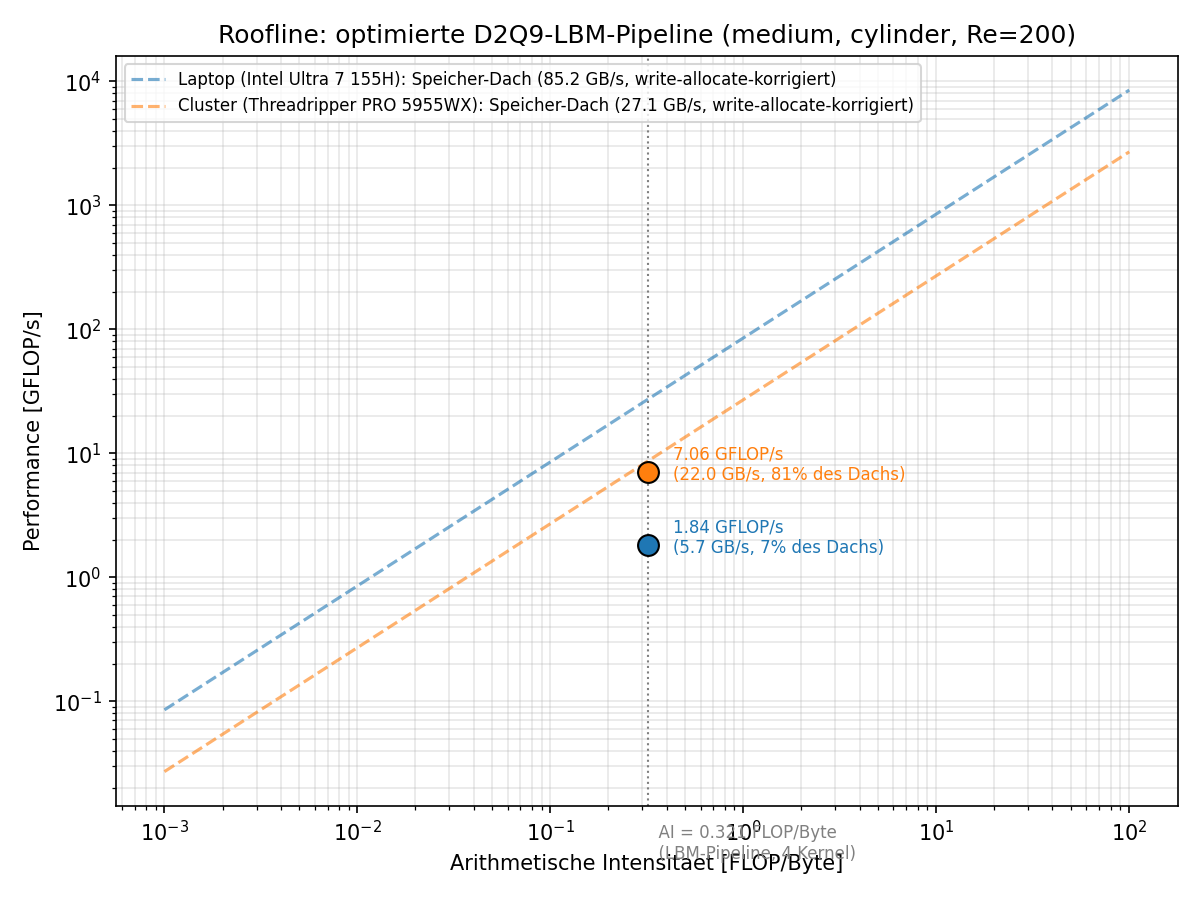
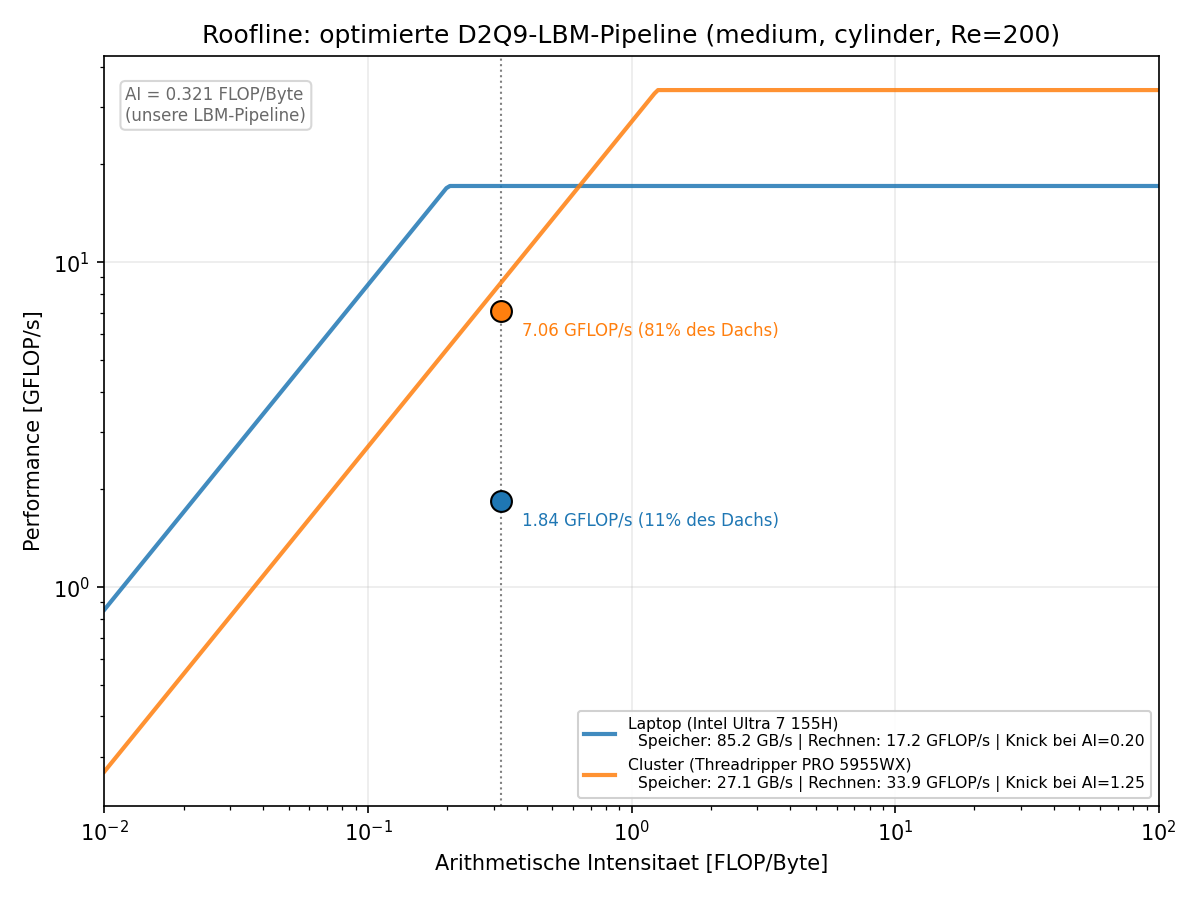
Roofline plot erstellt und scaling problem bash geschrieben um auf cluster laufen zu lassen

diff --git a/04_LatticeBoltzmann/roofline.py b/04_LatticeBoltzmann/roofline.py
@@ -2,6 +2,10 @@
 Roofline-Analyse fuer die optimierte LBM-Pipeline (Numba, 4 Kernel: equilibrium,
 macroscopic, stream, collide_and_bounce), auf Basis der 'medium'-Benchmarks
 (Arbeitsset > L3-Cache auf beiden Maschinen -- 'small' war Cache-verzerrt, siehe Notes.md).
+
+Speicher- und Rechen-"Daecher" sind selbst gemessene, erreichbare Grenzen fuer
+Numba-Skalarschleifen-Code (@njit(parallel=True)/prange, kein manuelles SIMD) --
+keine theoretischen Hardware-Maxima aus dem Datenblatt.
 """
 import numpy as np
 import matplotlib.pyplot as plt
@@ -12,67 +16,84 @@ import matplotlib.pyplot as plt
 #   macroscopic:          96 B/Zelle,   47 FLOPs/Zelle
 #   stream:               144 B/Zelle,   0 FLOPs/Zelle
 #   collide_and_bounce:   216 B/Zelle,  27 FLOPs/Zelle
-# Summe pro Zelle und Zeitschritt (alle vier Kernel, nicht fusioniert):
 BYTES_PER_CELL = 96 + 96 + 144 + 216   # = 552
 FLOPS_PER_CELL = 103 + 47 + 0 + 27      # = 177
 AI = FLOPS_PER_CELL / BYTES_PER_CELL    # FLOP/Byte
 
-# ---------------------------------------------------------------------------
-# Gemessene Werte: 'medium'-Benchmark (cylinder, 1000x250, 10'000 Steps) --
-# das Arbeitsset (~78 MB) ist auf beiden Maschinen groesser als der L3-Cache.
+WRITE_ALLOCATE_CORRECTION = 4 / 3   # STREAM-Triad zaehlt nur 3N*8B, real 4N*8B
+
 machines = {
     "Laptop (Intel Ultra 7 155H)": {
         "mlups": 10.373,
-        "stream_gbs_raw": 63.92,     # eigene STREAM-Triad-Messung
+        "stream_gbs_raw": 63.92,
+        "compute_gflops": 17.17,     # eigener compute_bench.py-Wert
         "color": "tab:blue",
     },
     "Cluster (Threadripper PRO 5955WX)": {
         "mlups": 39.880,
         "stream_gbs_raw": 20.30,
+        "compute_gflops": 33.88,
         "color": "tab:orange",
     },
 }
-WRITE_ALLOCATE_CORRECTION = 4 / 3   # STREAM-Triad-Messung zaehlt nur 3N*8B, real 4N*8B
 
 fig, ax = plt.subplots(figsize=(8, 6))
+ai_range = np.logspace(-2, 2, 300)
 
-ai_range = np.logspace(-3, 2, 200)
+y_min, y_max = 1e9, -1e9
 
 for name, d in machines.items():
     peak_bw = d["stream_gbs_raw"] * WRITE_ALLOCATE_CORRECTION   # GB/s
-    achieved_bw = BYTES_PER_CELL * d["mlups"] / 1000             # GB/s
-    achieved_gflops = FLOPS_PER_CELL * d["mlups"] / 1000         # GFLOP/s
+    peak_compute = d["compute_gflops"]                          # GFLOP/s
+    ridge_ai = peak_compute / peak_bw
 
-    # Memory-Roof: Performance = AI * peak_bandwidth (Speicherbandbreiten-Grenze)
-    ax.plot(ai_range, ai_range * peak_bw, "--", color=d["color"], alpha=0.6,
-             label=f"{name}: Speicher-Dach ({peak_bw:.1f} GB/s, write-allocate-korrigiert)")
+    roof = np.minimum(ai_range * peak_bw, peak_compute)         # klassische Roofline-Form
+    ax.plot(ai_range, roof, "-", color=d["color"], linewidth=2, alpha=0.85,
+            label=f"{name}\n  Speicher: {peak_bw:.1f} GB/s | Rechnen: {peak_compute:.1f} GFLOP/s "
+                  f"| Knick bei AI={ridge_ai:.2f}")
 
-    # gemessener Punkt bei AI der LBM-Pipeline
+    achieved_bw = BYTES_PER_CELL * d["mlups"] / 1000
+    achieved_gflops = FLOPS_PER_CELL * d["mlups"] / 1000
+    applicable_roof = min(AI * peak_bw, peak_compute)
+    util_pct = achieved_gflops / applicable_roof * 100
+
     ax.plot(AI, achieved_gflops, "o", color=d["color"], markersize=10,
-             markeredgecolor="black", zorder=5)
-    ax.annotate(f"{achieved_gflops:.2f} GFLOP/s\n({achieved_bw:.1f} GB/s, "
-                f"{achieved_bw/peak_bw*100:.0f}% des Dachs)",
-                (AI, achieved_gflops), textcoords="offset points", xytext=(12, -4),
+            markeredgecolor="black", zorder=5)
+    ax.annotate(f"{achieved_gflops:.2f} GFLOP/s ({util_pct:.0f}% des Dachs)",
+                (AI, achieved_gflops), textcoords="offset points", xytext=(10, -12),
                 fontsize=8, color=d["color"])
 
-ax.axvline(AI, color="gray", linestyle=":", linewidth=1)
-ax.text(AI, ax.get_ylim()[1] if False else 0.005, f"  AI = {AI:.3f} FLOP/Byte\n  (LBM-Pipeline, 4 Kernel)",
-        fontsize=8, color="gray", va="bottom")
+    y_min = min(y_min, roof.min(), achieved_gflops)
+    y_max = max(y_max, roof.max(), achieved_gflops)
+
+ax.axvline(AI, color="gray", linestyle=":", linewidth=1, zorder=1)
+# links von der grauen Linie, oben im freien Bereich (Achsen-Koordinaten, unabhaengig von den
+# Datenwerten) -- ueberdeckt weder eine Dachlinie noch die Legende
+ax.text(0.02, 0.96, f"AI = {AI:.3f} FLOP/Byte\n(unsere LBM-Pipeline)",
+        transform=ax.transAxes, fontsize=8, color="dimgray", va="top", ha="left",
+        bbox=dict(boxstyle="round,pad=0.3", fc="white", ec="lightgray", alpha=0.9))
 
 ax.set_xscale("log")
 ax.set_yscale("log")
+ax.set_xlim(ai_range[0], ai_range[-1])
 ax.set_xlabel("Arithmetische Intensitaet [FLOP/Byte]")
 ax.set_ylabel("Performance [GFLOP/s]")
 ax.set_title("Roofline: optimierte D2Q9-LBM-Pipeline (medium, cylinder, Re=200)")
-ax.legend(fontsize=8, loc="upper left")
-ax.grid(alpha=0.3, which="both")
+ax.legend(fontsize=7.5, loc="lower right", framealpha=0.9)
+ax.grid(True, which="major", alpha=0.25)
 
 fig.tight_layout()
 fig.savefig("figures/roofline.png", dpi=150)
 print("Plot gespeichert: figures/roofline.png")
+
 print(f"\nAI = {AI:.4f} FLOP/Byte")
 for name, d in machines.items():
     peak_bw = d["stream_gbs_raw"] * WRITE_ALLOCATE_CORRECTION
-    achieved_bw = BYTES_PER_CELL * d["mlups"] / 1000
-    print(f"{name}: achieved {achieved_bw:.2f} GB/s / corrected peak {peak_bw:.2f} GB/s "
-          f"= {achieved_bw/peak_bw*100:.1f}%")
+    peak_compute = d["compute_gflops"]
+    ridge_ai = peak_compute / peak_bw
+    achieved_gflops = FLOPS_PER_CELL * d["mlups"] / 1000
+    applicable_roof = min(AI * peak_bw, peak_compute)
+    regime = "speicherlimitiert" if AI < ridge_ai else "rechenlimitiert (im Modell)"
+    print(f"{name}: Knick bei AI={ridge_ai:.3f} -> unser Kernel liegt im Bereich '{regime}'; "
+          f"erreicht {achieved_gflops:.2f} / Dach {applicable_roof:.2f} GFLOP/s "
+          f"= {achieved_gflops/applicable_roof*100:.1f}%")

diff --git a/04_LatticeBoltzmann/Notes.md b/04_LatticeBoltzmann/Notes.md
@@ -370,9 +370,29 @@ Cache-Line ueblicherweise zuerst ein "verstecktes" Lesen dieser Line ausloest):
 | Laptop   | 63.92 GB/s   | 85.23 GB/s | 5.73 GB/s  | **6.7%** |
 | Cluster  | 20.30 GB/s   | 27.07 GB/s | 22.01 GB/s | **81.3%** |
 
-Plot: `figures/roofline.png` (`roofline.py`).
+**Rechen-Dach** (zweiter Mikrobenchmark, `compute_bench.py`: kleines Array bleibt im Cache,
+sehr viele FMA-artige Operationen, damit die Zeit rein von der Rechenleistung dominiert wird,
+gleiches `@njit(parallel=True)`/`prange`-Muster):
 
-**Interpretation -- grosse Diskrepanz Laptop vs. Cluster:** Der Cluster erreicht bei `medium`
+| Maschine | Rechen-Dach (gemessen) | Speicher-Dach (korrigiert) | Knick (Ridge Point) |
+|----------|--------------------------|------------------------------|------------------------|
+| Laptop   | 17.17 GFLOP/s | 85.23 GB/s | AI = 0.201 FLOP/Byte |
+| Cluster  | 33.88 GFLOP/s | 27.07 GB/s | AI = 1.252 FLOP/Byte |
+
+Hinweis: beide Daecher sind selbst gemessene, mit Numba-Skalarschleifen erreichbare Grenzen
+(kein manuelles SIMD) -- keine theoretischen Hardware-Datenblatt-Maxima.
+
+Plot: `figures/roofline.png` (`roofline.py`), mit korrektem Roofline-Knick (Speicher-Diagonale
+bricht am Ridge Point in die flache Rechenleistungs-Grenze).
+
+**Interpretation -- grosse Diskrepanz Laptop vs. Cluster:** Bei unserer AI (0.321 FLOP/Byte)
+liegt der Cluster noch links vom eigenen Knick (1.252) -- also im speicherlimitierten Bereich,
+und erreicht dort plausibel 81% seines Speicher-Dachs. Der Laptop dagegen hat einen sehr
+niedrigen Knick (0.201, weil sein Speicher-Dach im Verhaeltnis zur eigenen Rechenleistung sehr
+hoch ist) -- unsere Pipeline liegt bei ihm im Modell schon im rechenlimitierten Bereich, erreicht
+aber nur 11% des (gemessenen) Rechen-Dachs. Unabhaengig davon, welches Dach man anlegt: der
+Laptop bleibt bei `medium` weit unter jeder plausiblen Grenze -- die Unterauslastung ist real,
+nicht nur ein Artefakt der Modellwahl. Der Cluster erreicht bei `medium`
 plausibel den Grossteil (81%) seiner eigenen Speicherbandbreite -- genau das erwartete Bild fuer
 einen speicherbandbreiten-limitierten Stencil. Der Laptop dagegen schoepft nur ~7% seines
 Dachs aus, und faellt bei `medium` sogar hinter den Cluster zurueck (241 s vs. 62.7 s optimiert
@@ -391,6 +411,20 @@ bewiesene Hypothesen (Zeitbudget liess keine tiefere Instrumentierung mehr zu):
 Fazit: bei kleinen Problemgrössen (`small`) ist der Laptop schneller (Cache-Vorteil, kurze
 Laufzeit), bei realistischeren Groessen (`medium`) dreht sich das Bild um -- eine wichtige
 Erkenntnis, die eine reine `small`-Messung verschleiert haette.
+
+**Warum die Optimierung so viel bringt -- Baseline vs. optimiert am Beispiel `equilibrium`:**
+Die Physik/FLOPs sind bei Baseline (NumPy) und optimiert (Numba) identisch -- am Speicherverkehr
+aendert sich aber viel: NumPy materialisiert bei jedem einzelnen Rechenschritt
+(`ux*ux`, `+`, `*1.5`, ...) ein eigenes temporaeres Array im Speicher, waehrend der
+Numba-Scalar-Loop alles pro Zelle in Registern durchrechnet und nur das Endresultat schreibt.
+Von Hand durchgerechnet fuer `equilibrium()`: Baseline bewegt dafuer ~1944 Bytes/Zelle,
+die optimierte Version nur 96 Bytes/Zelle -- Faktor ~20, bei exakt gleicher Rechenarbeit.
+(Fuer die anderen drei Kernel liesse sich das grundsaetzlich auch herleiten, aber von Hand
+nicht zuverlaessig genug fuer eine belastbare Gesamtzahl -- NumPy kann intern Zwischenschritte
+anders behandeln als angenommen; ohne echtes Memory-Profiling-Tool nicht verifizierbar. Deshalb
+hier nur das eine, klar nachvollziehbare Beispiel statt einer unsicheren Gesamt-AI fuer die
+Baseline.) Das erklaert die Optimierung nicht nur "weil Numba schneller ist", sondern konkret
+*warum*: weniger Speicherverkehr pro FLOP, nicht mehr FLOPs.
 
 ## 7. Reflexion
 
